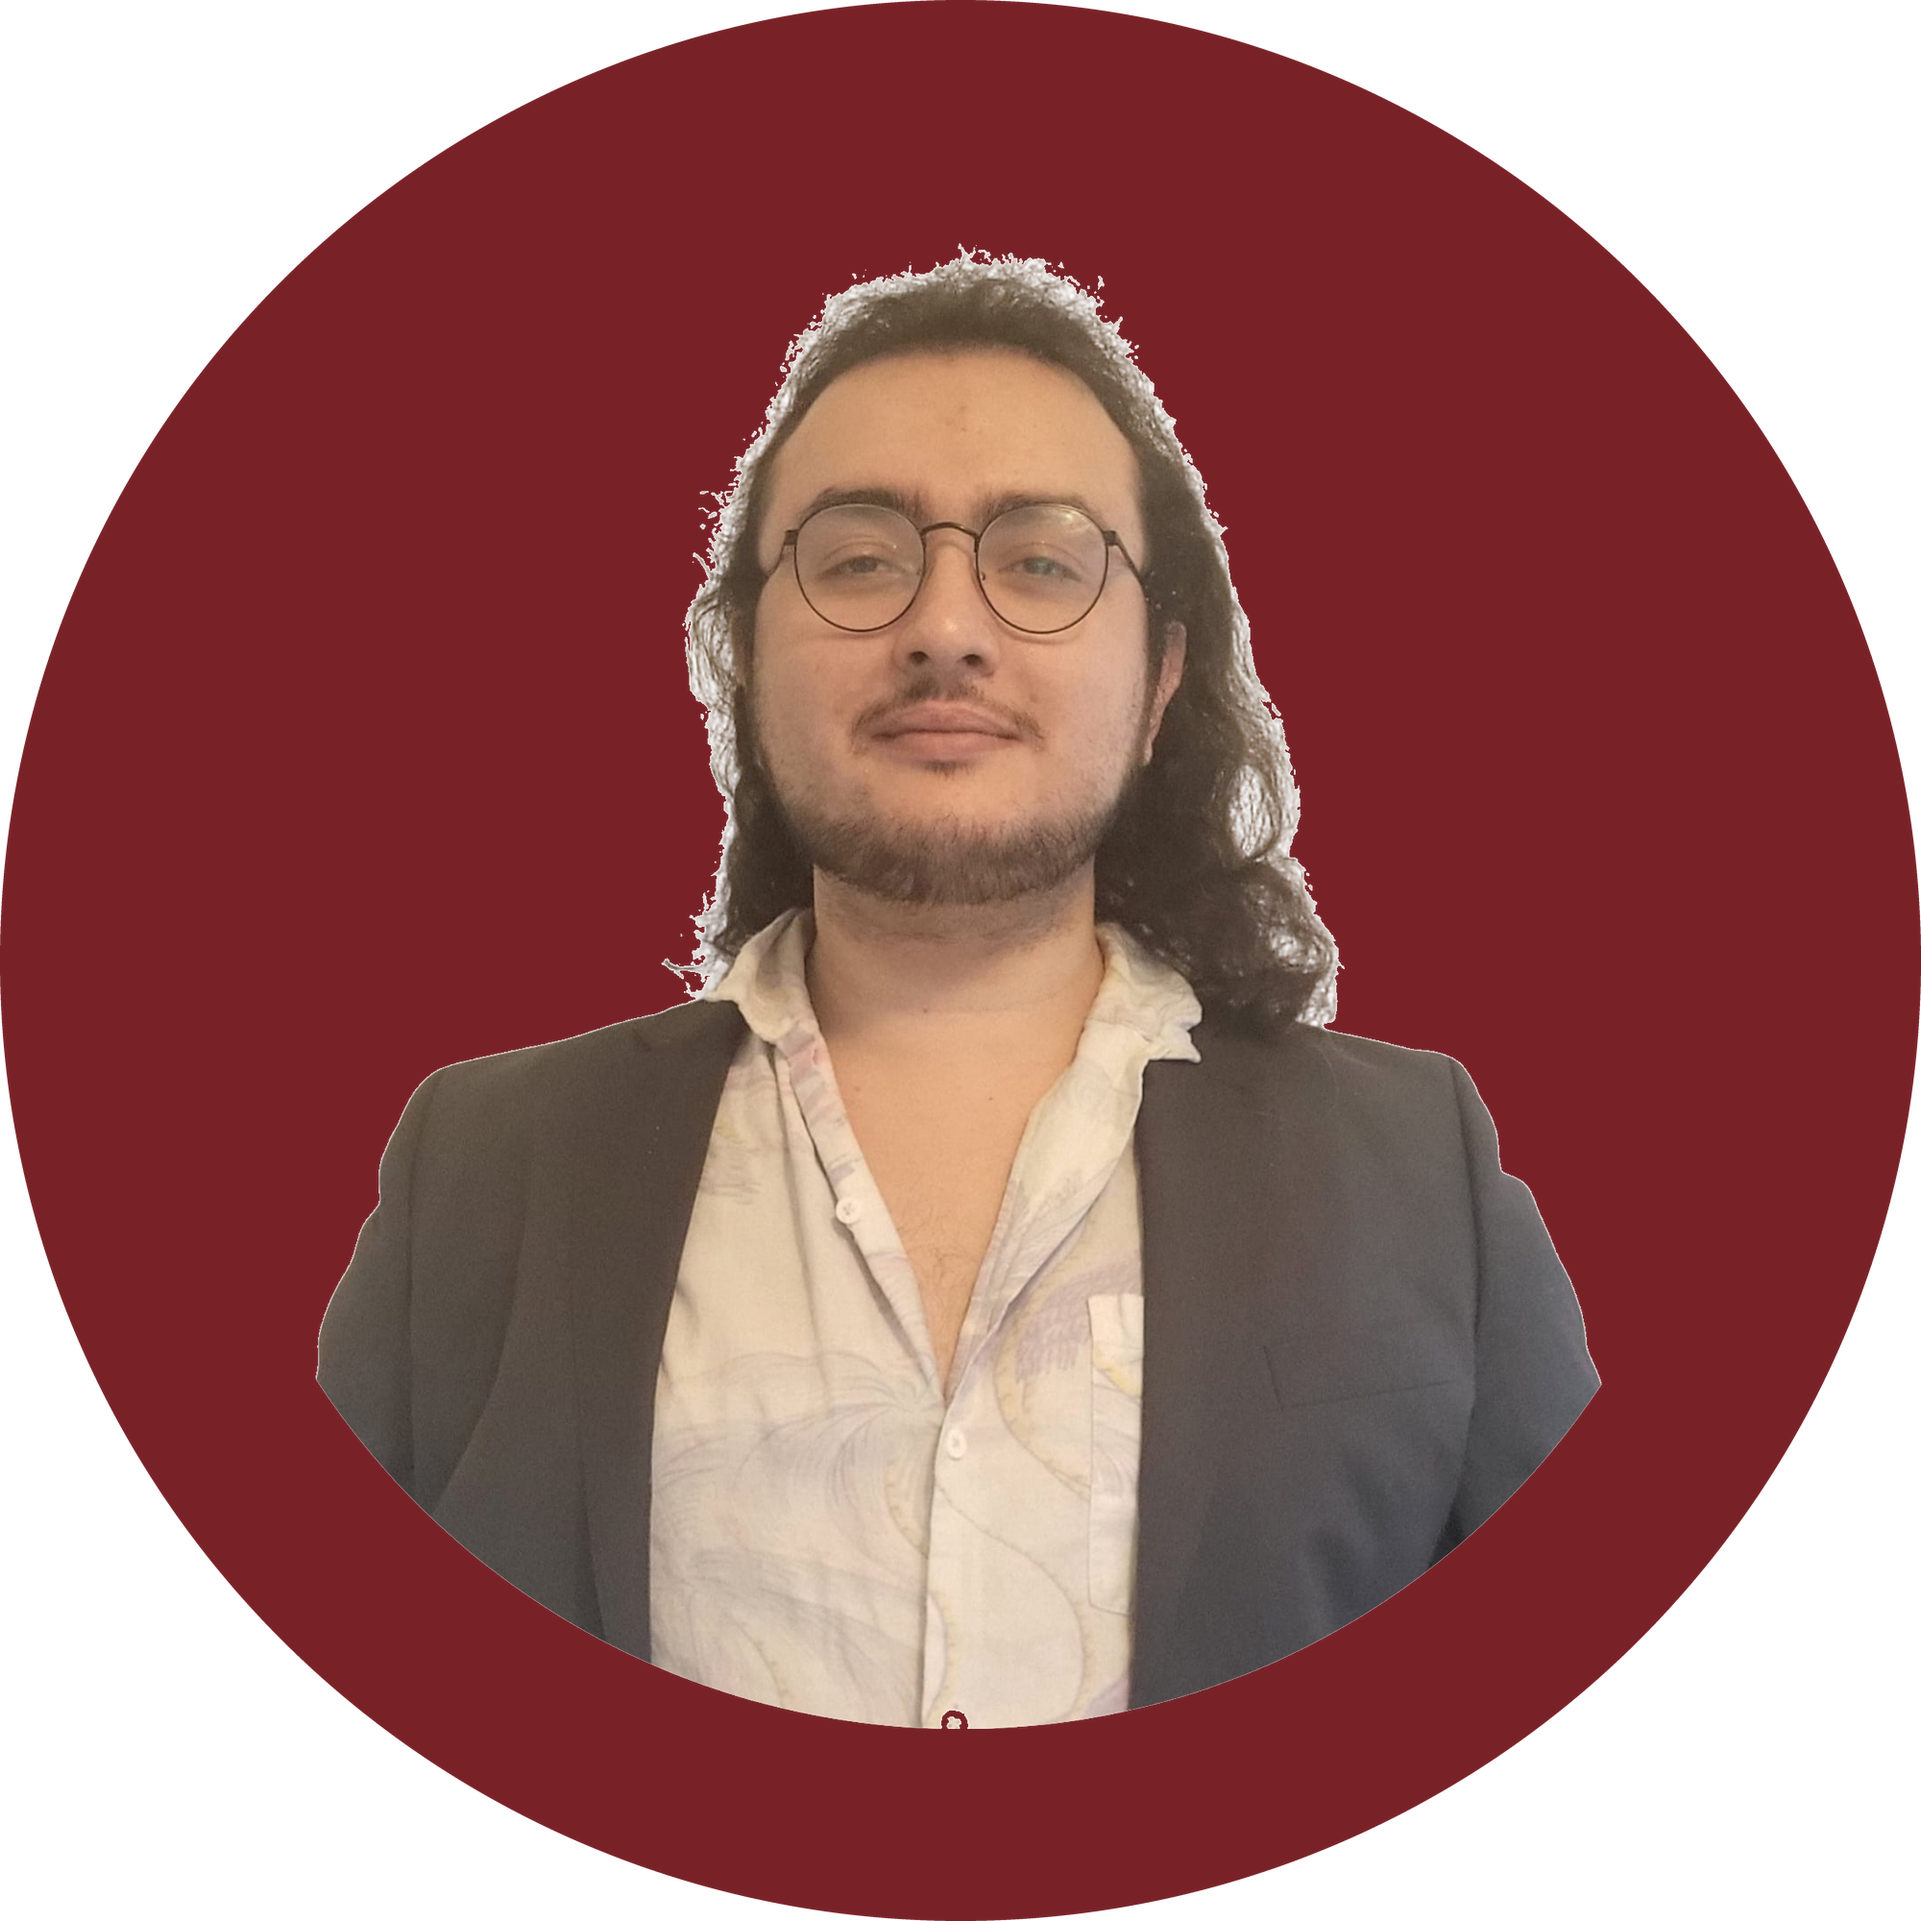
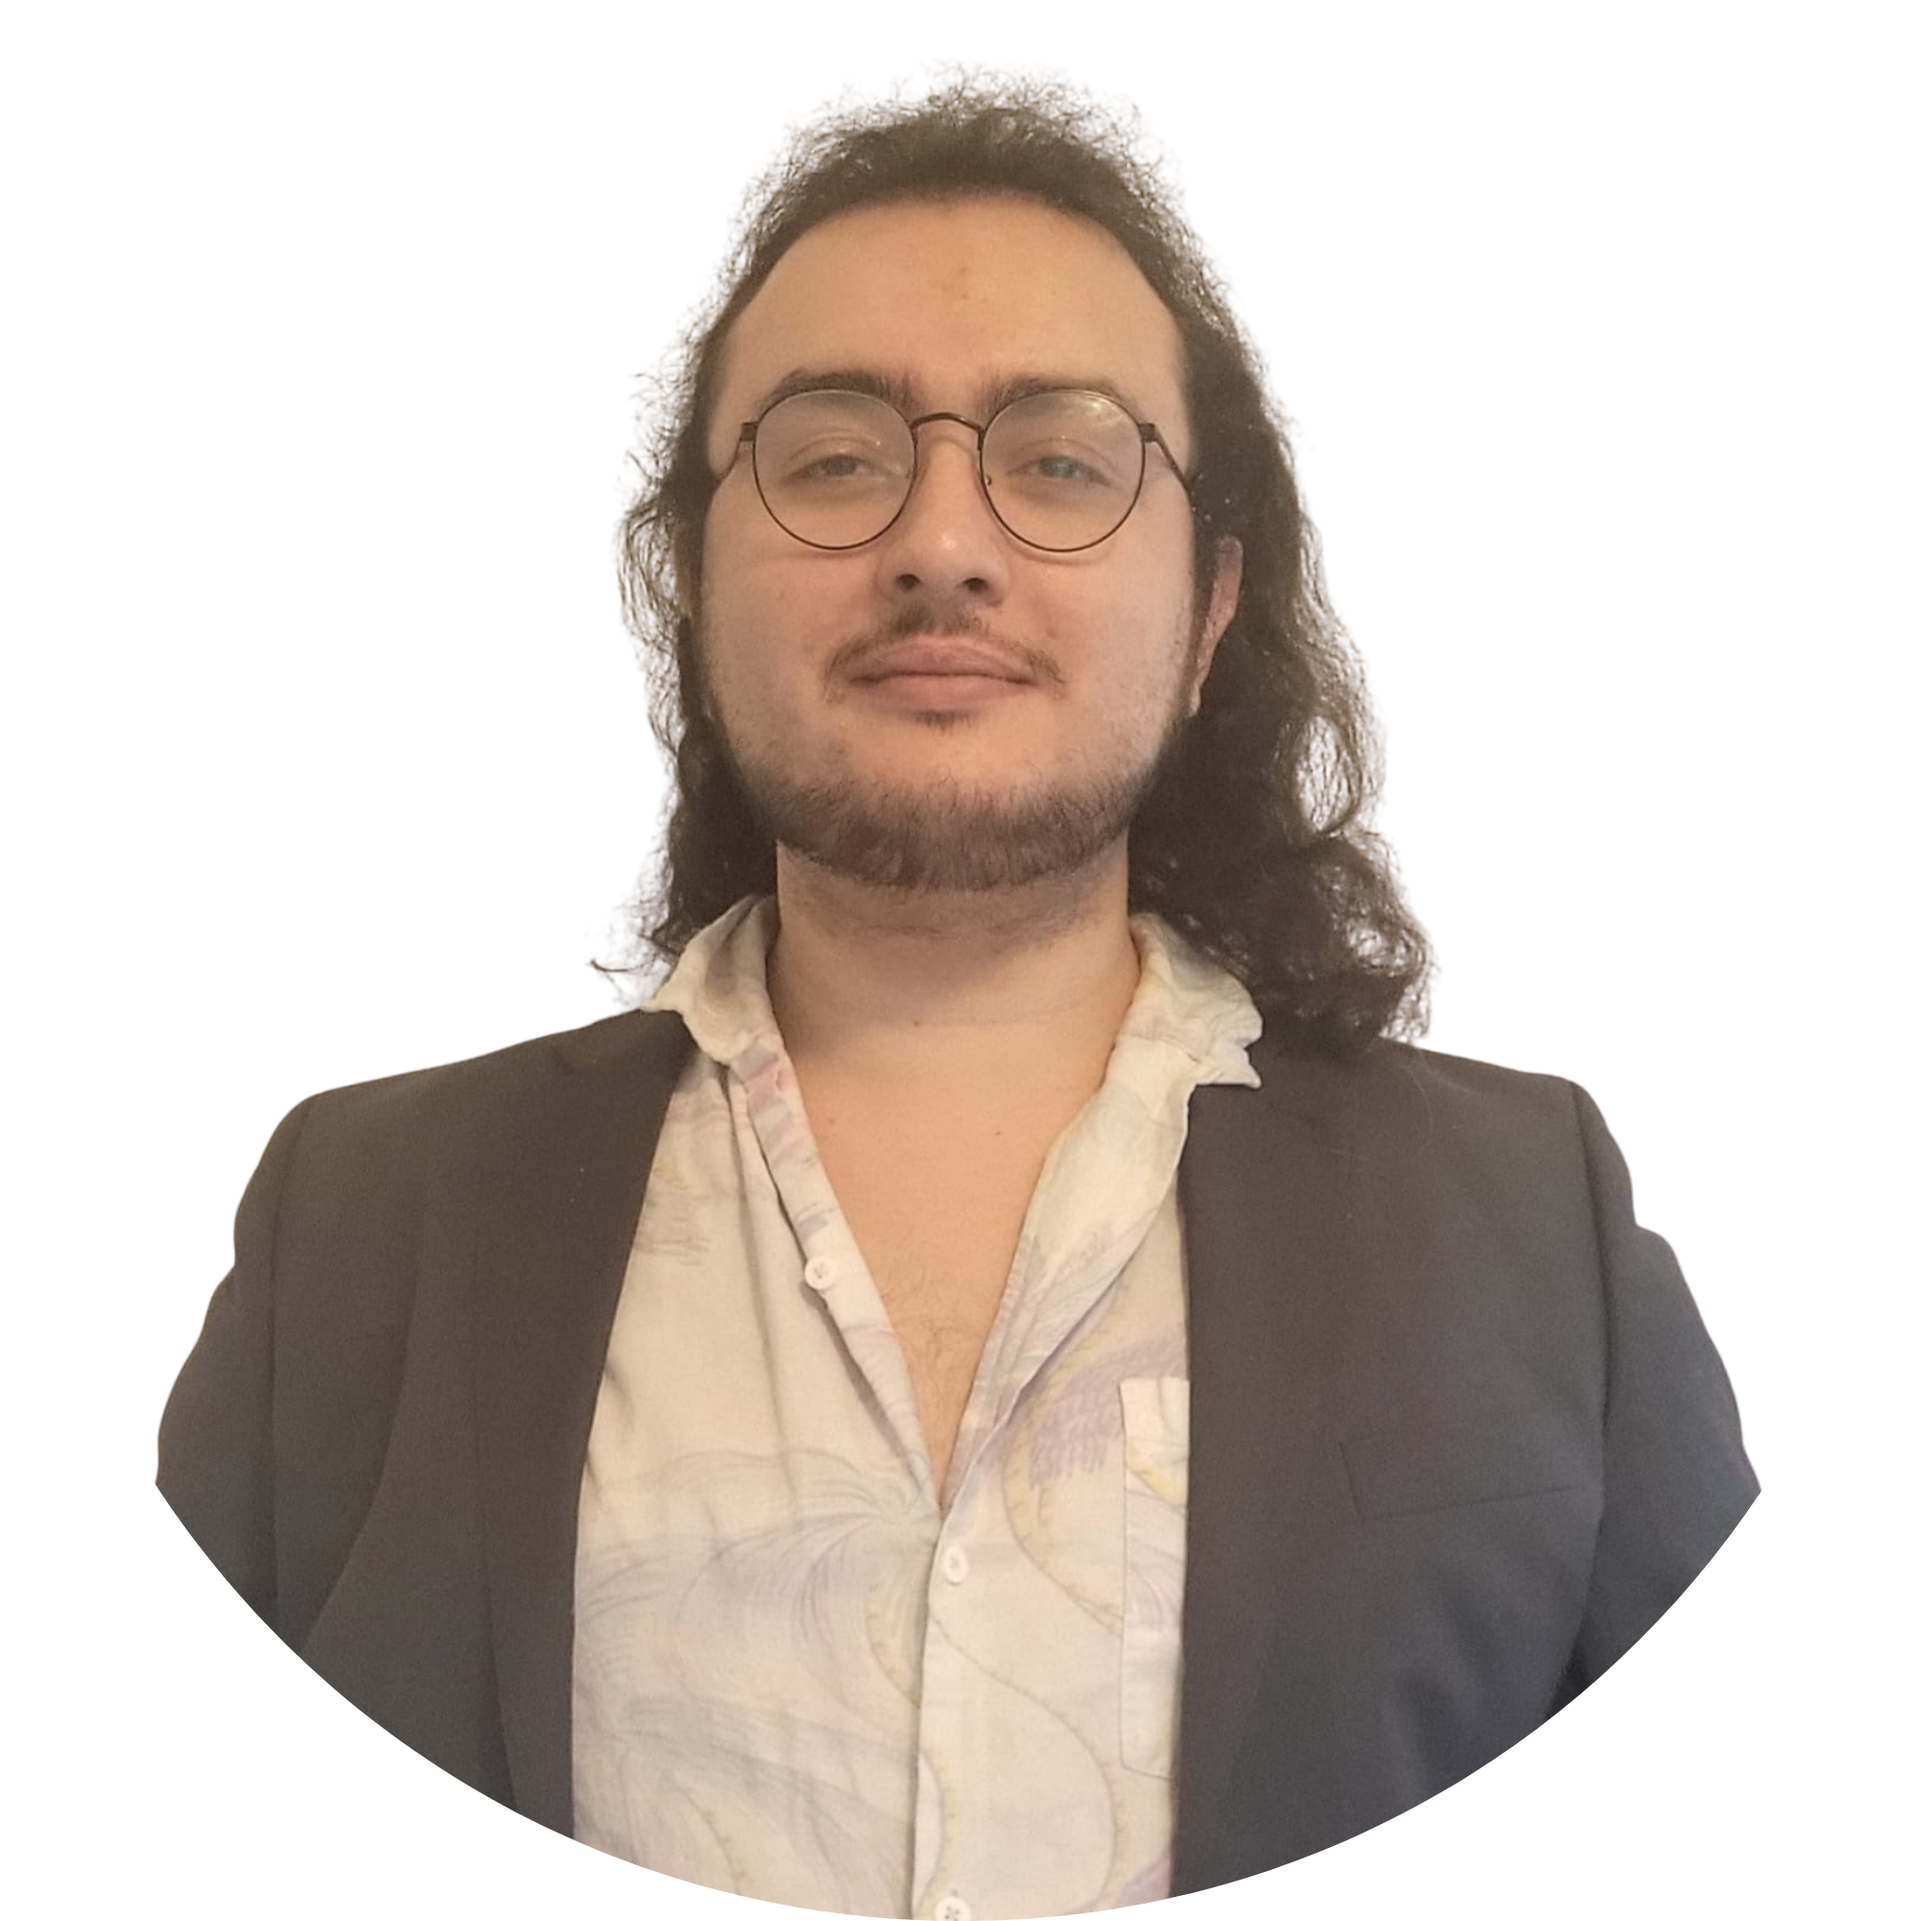
Revient aux portraits d'origine, en-tête en bleu ardoise
Le détourage du fond blanc introduisait du crénelage visible sur les
cheveux et les épaules. Les six portraits reviennent à la photo
d'origine, déjà recadrée en cercle par le site source, affichée telle
quelle sans traitement ni cercle de couleur superposé. L'en-tête passe
du vert sapin au bleu ardoise de la palette NSH.

diff --git a/src/components/SiteHeader.tsx b/src/components/SiteHeader.tsx
@@ -21,7 +21,7 @@ export function SiteHeader() {
   const [open, setOpen] = useState(false);
 
   return (
-    <header className="bg-deep">
+    <header className="bg-accent">
       <div className="h-1 bg-red" />
       <div className="mx-auto flex max-w-[1240px] items-center justify-between px-6 py-4 md:px-10">
         <Link
@@ -83,7 +83,7 @@ export function SiteHeader() {
       </div>
 
       {open && (
-        <nav className="border-t border-deep-soft bg-deep px-6 py-4 lg:hidden">
+        <nav className="border-t border-deep-soft/40 bg-accent px-6 py-4 lg:hidden">
           <ul className="flex flex-col gap-4">
             {NAV_ITEMS.map((item) => (
               <li key={item.href}>

diff --git a/src/app/la-nsh/page.tsx b/src/app/la-nsh/page.tsx
@@ -159,7 +159,7 @@ export default function LaNshPage() {
                     alt={member.name}
                     fill
                     sizes="112px"
-                    className="object-contain"
+                    className="object-cover"
                   />
                 </div>
                 <p className="mt-4 text-base font-medium text-deep-text">

diff --git a/src/app/page.tsx b/src/app/page.tsx
@@ -205,7 +205,7 @@ export default function HomePage() {
                     alt={member.name}
                     fill
                     sizes="112px"
-                    className="object-contain"
+                    className="object-cover"
                   />
                 </div>
                 <p className="mt-4 text-base font-medium text-deep-text">
